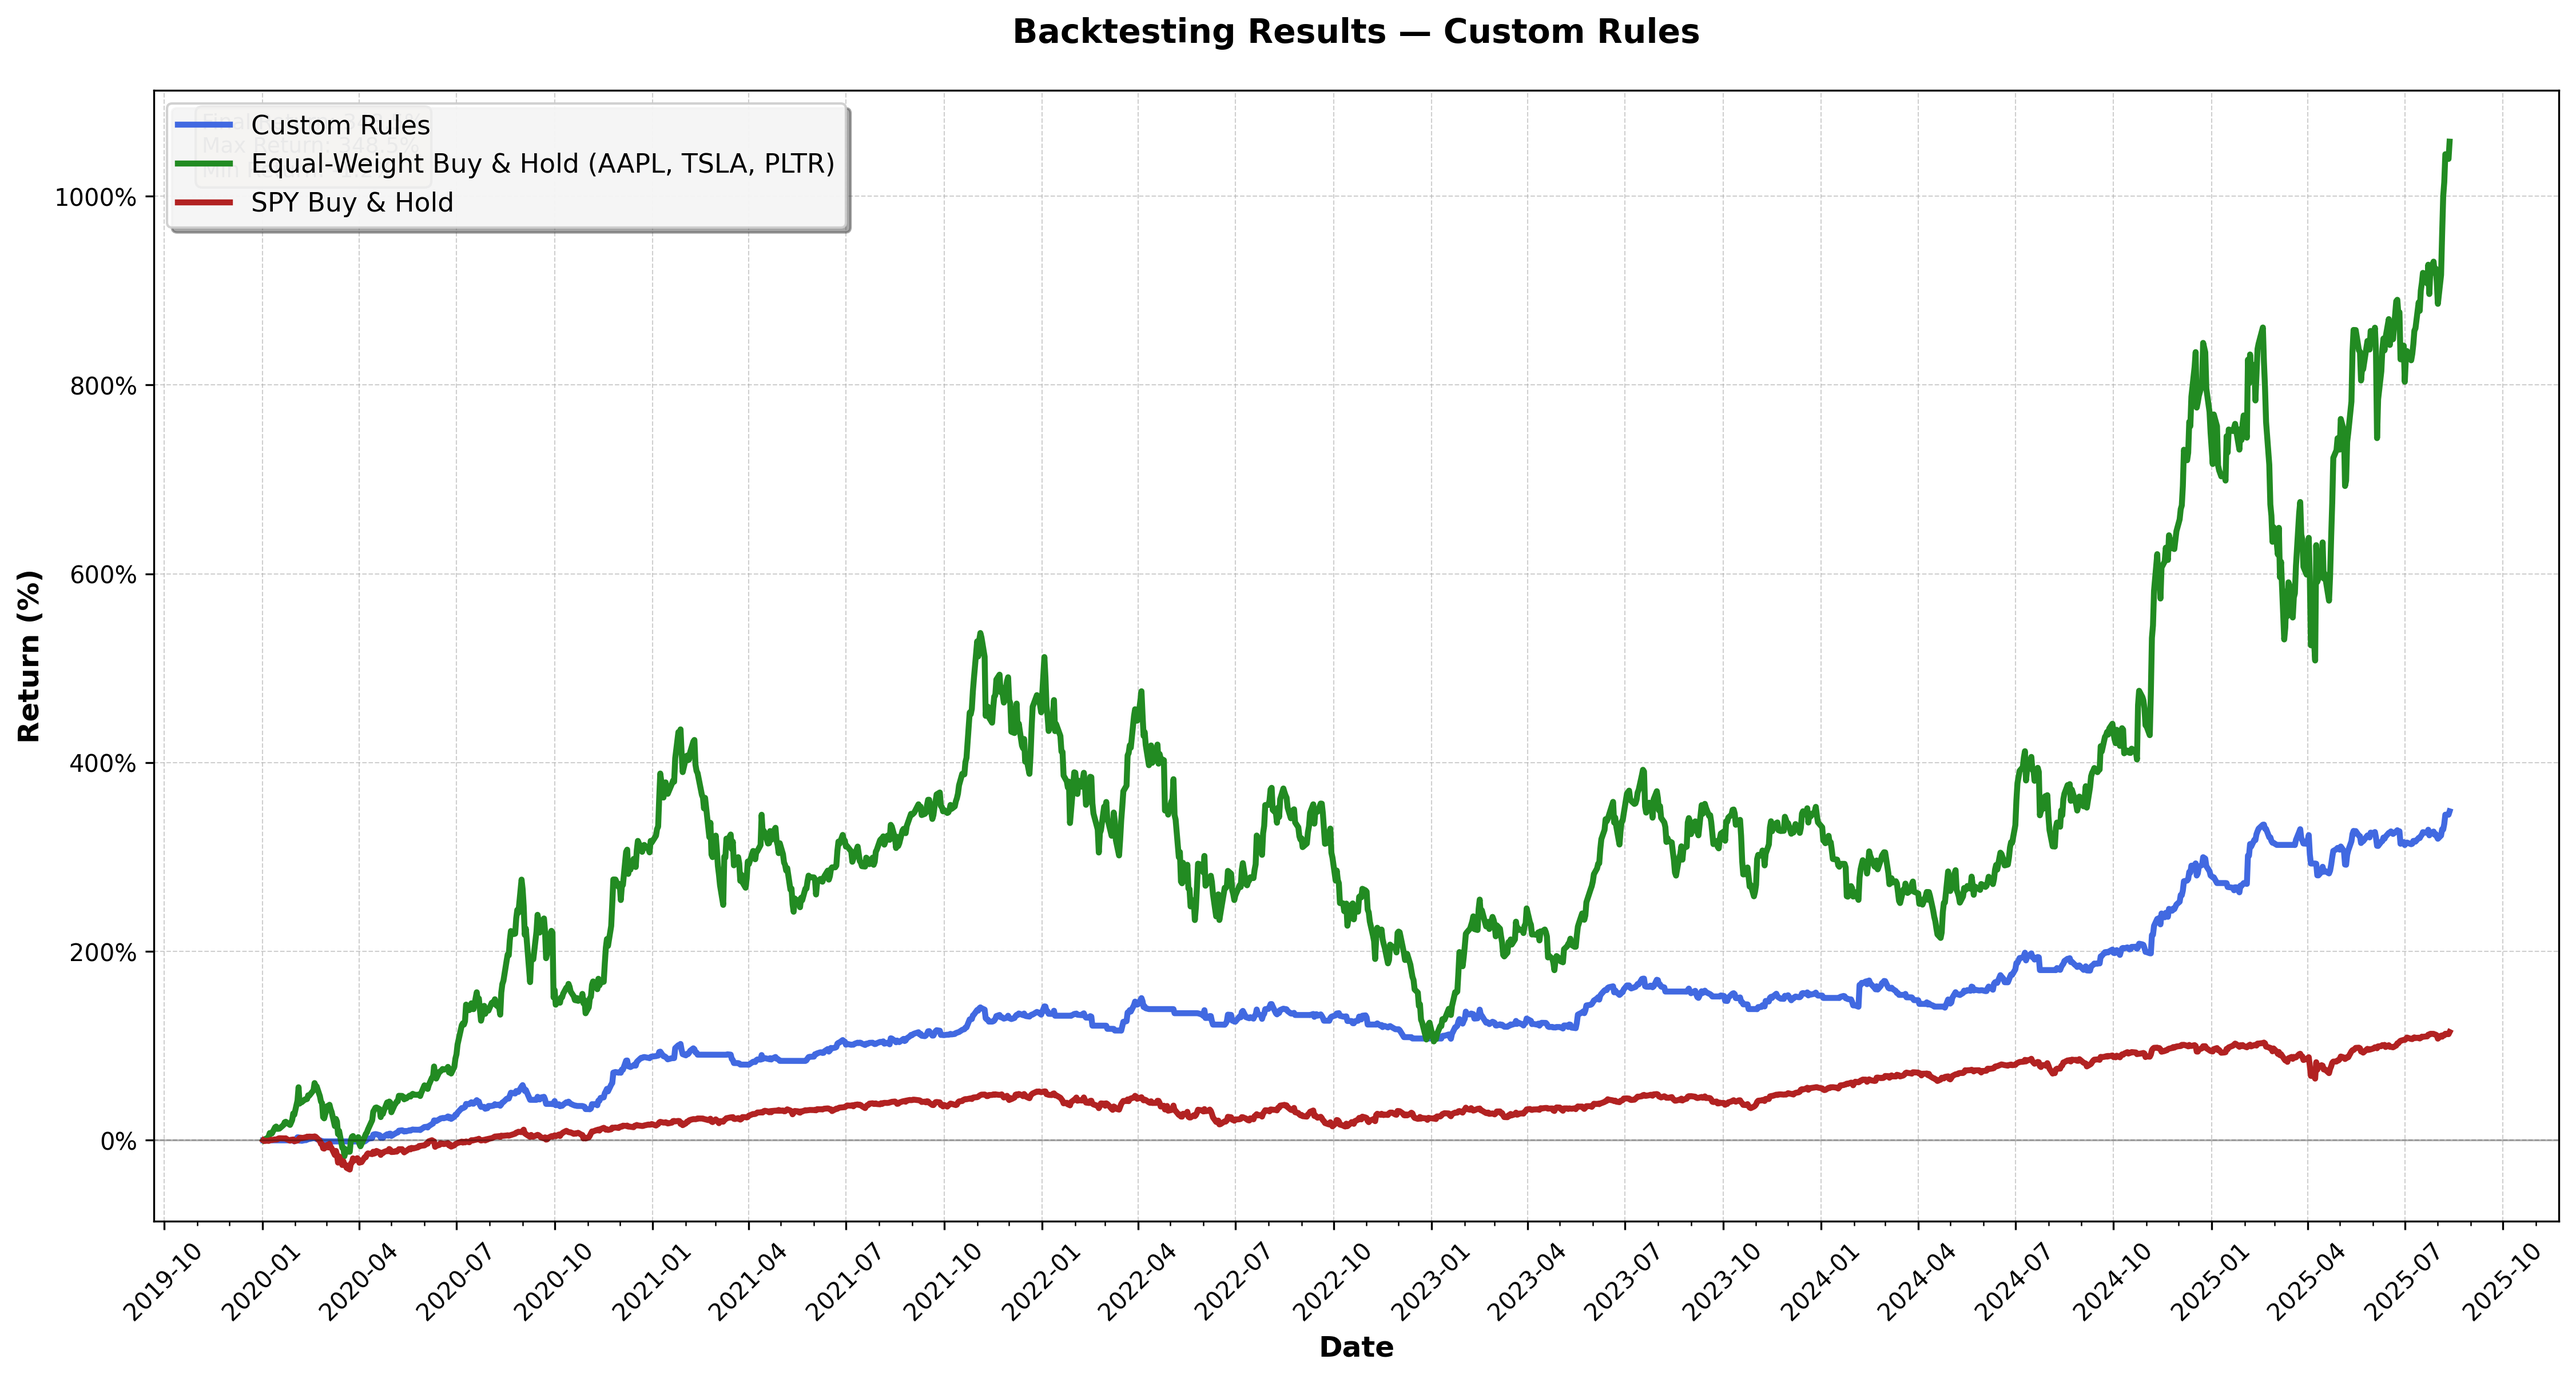
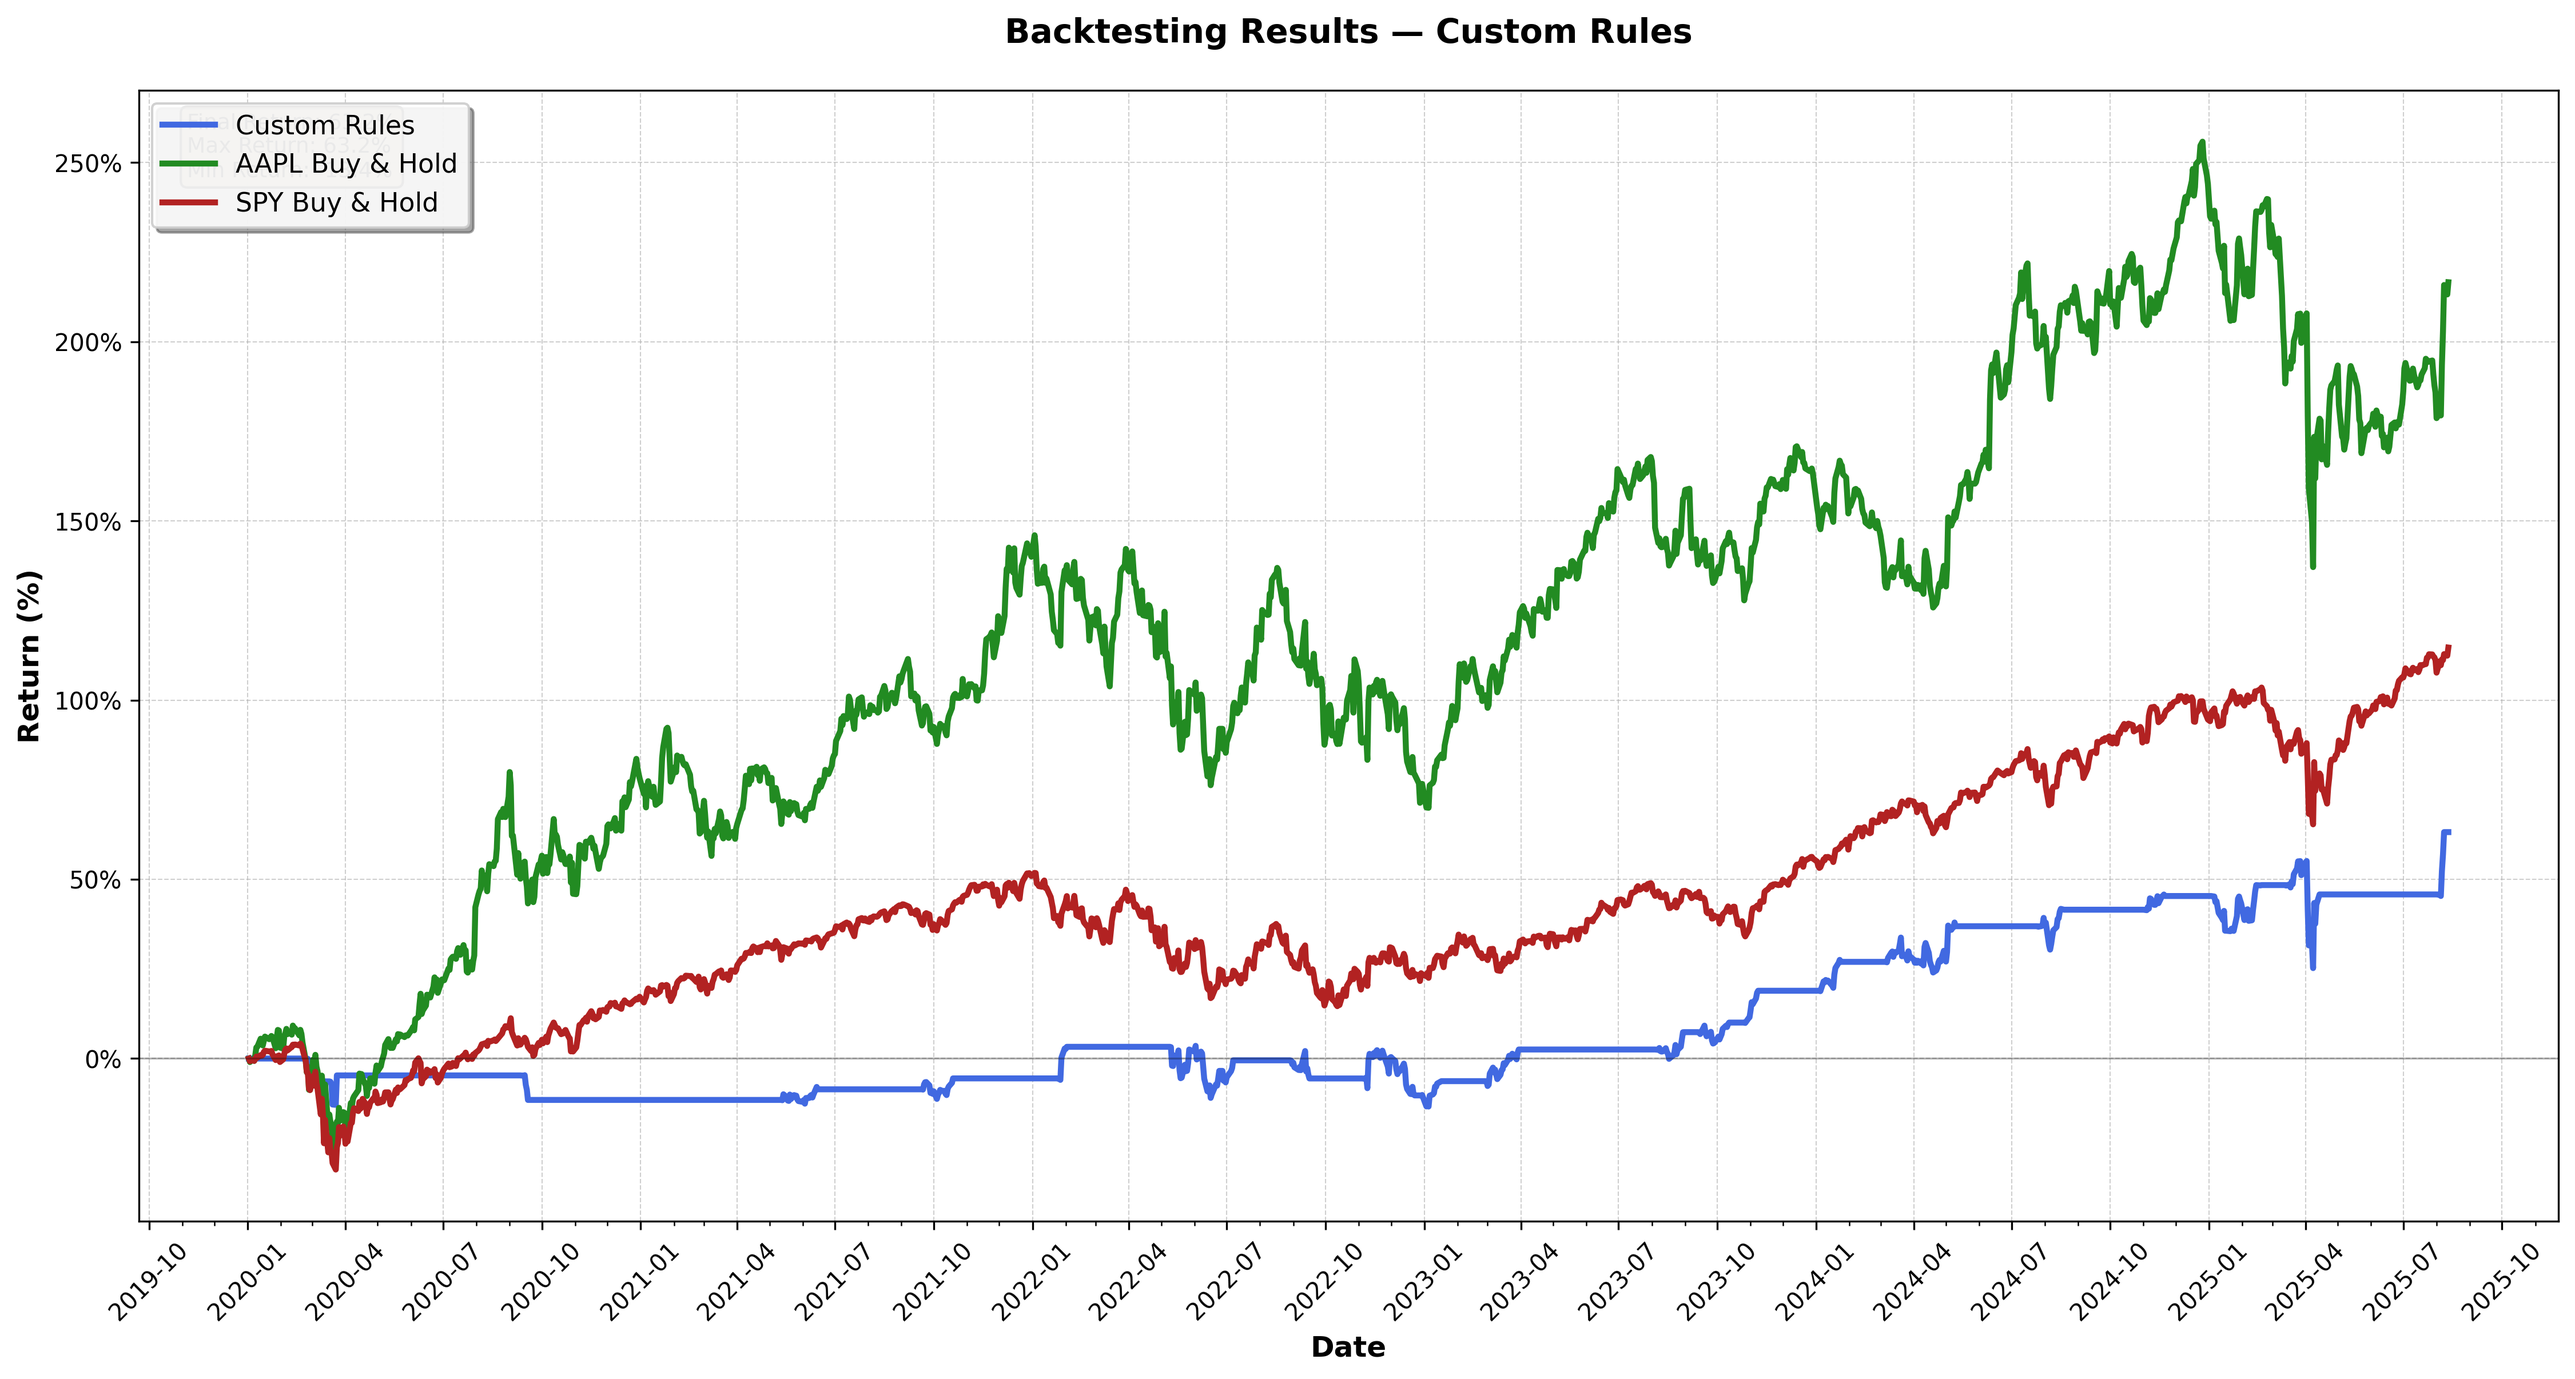
add stoch indicator

diff --git a/app/test_backtest.py b/app/test_backtest.py
@@ -197,40 +197,24 @@ def create_performance_plot(plot_data, tickers, strategy_name):
 
 
 async def main():
-    # Bollinger Bands Strategy - Middle Band Bounce with Risk Management
-    # Buy when price crosses above middle band (20-day SMA)
-    # Sell when price crosses below middle band OR hit stop loss/profit taker
+
+
     data = {
-        "tickers": ["AAPL","TSLA","PLTR"],
+        "tickers": ["AAPL"],
         "start_date": "2020-01-01",
         "end_date": "2025-08-12",
         "buy_condition": [
-            {"name": "price", "value": "bb_middle", "operator": "above"}
+            {"name": "stoch_k", "value": 20, "operator": "below"},  # In oversold zone
+            {"name": "stoch_crossover", "value": 0, "operator": "above", "logic": "and"}  # AND %K crosses above %D
         ],
         "sell_condition": [
-            {"name": "price", "value": "bb_middle", "operator": "below"}
+            {"name": "stoch_k", "value": 80, "operator": "above"},  # In overbought zone
+            {"name": "stoch_crossover", "value": 0, "operator": "below", "logic": "and"}  # AND %K crosses below %D
         ],
         "stop_loss": 5,  # Exit if price drops 5% from entry
         "profit_taker": 10  # Exit if price rises 10% from entry
     }
-    
-    # Other Bollinger Bands strategies:
-    # 1. Mean Reversion: Buy at bb_lower, Sell at bb_upper
-    # 2. Breakout: Buy above bb_upper, Sell below bb_middle
-    # 3. Squeeze: Combine with RSI for better signals
-    
-    # ATR Multiplier Strategy Example:
-    # data = {
-    #     "tickers": ["AAPL"],
-    #     "start_date": "2020-01-01",
-    #     "end_date": "2025-08-12",
-    #     "buy_condition": [
-    #         {"name": "price", "value": "atr_upper_2", "operator": "above"}
-    #     ],
-    #     "sell_condition": [
-    #         {"name": "price", "value": "atr_lower_2", "operator": "below"}
-    #     ]
-    # }
+
 
     await testing_strategy(
         data["tickers"],

diff --git a/app/backtesting/advanced_rule_engine.py b/app/backtesting/advanced_rule_engine.py
@@ -114,13 +114,30 @@ class CustomRuleEngine:
             indicators['adx'] = self.ti.adx(data['high'], data['low'], data['close'])
         
         # Stochastic Oscillator
-        stochastic_indicators = {'stoch_k', 'stoch_d'}
+        stochastic_indicators = {'stoch_k', 'stoch_d', 'stoch_k_oversold', 'stoch_k_overbought', 
+                                'stoch_d_oversold', 'stoch_d_overbought', 'stoch_crossover'}
         if stochastic_indicators.intersection(required_indicators):
             stoch_data = self.ti.stochastic_oscillator(data['high'], data['low'], data['close'])
             if 'stoch_k' in required_indicators:
                 indicators['stoch_k'] = stoch_data['k_percent']
             if 'stoch_d' in required_indicators:
                 indicators['stoch_d'] = stoch_data['d_percent']
+            
+            # Oversold/Overbought levels for %K
+            if 'stoch_k_oversold' in required_indicators:
+                indicators['stoch_k_oversold'] = 20  # Static level for comparison
+            if 'stoch_k_overbought' in required_indicators:
+                indicators['stoch_k_overbought'] = 80  # Static level for comparison
+                
+            # Oversold/Overbought levels for %D
+            if 'stoch_d_oversold' in required_indicators:
+                indicators['stoch_d_oversold'] = 20  # Static level for comparison
+            if 'stoch_d_overbought' in required_indicators:
+                indicators['stoch_d_overbought'] = 80  # Static level for comparison
+            
+            # Crossover indicator (positive when %K > %D, negative when %K < %D)
+            if 'stoch_crossover' in required_indicators:
+                indicators['stoch_crossover'] = stoch_data['k_percent'] - stoch_data['d_percent']
         
         # CCI
         if 'cci' in required_indicators:
